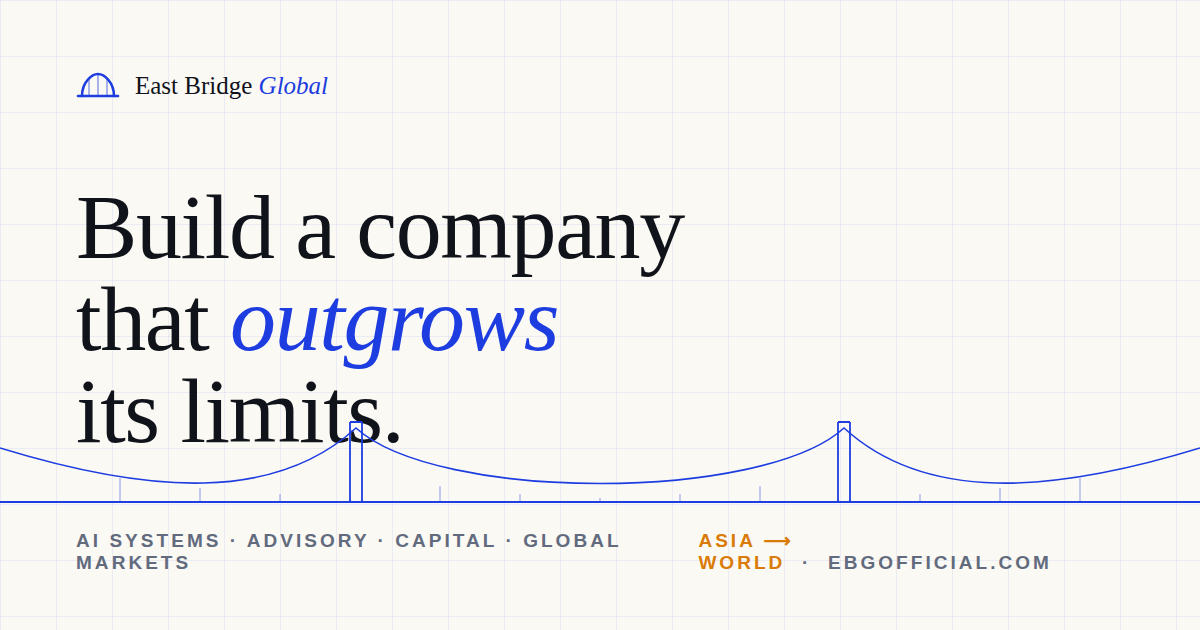
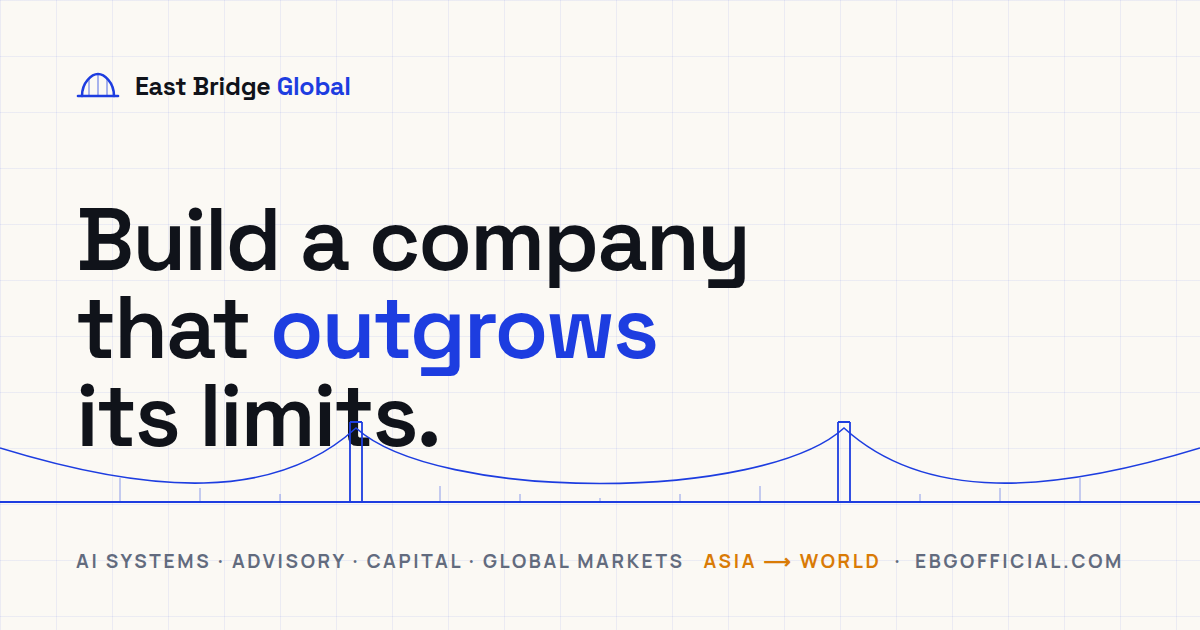
Switch display type to Space Grotesk; remove italic styling
Sleeker, less decorative typography per founder feedback: Space Grotesk
replaces the Fraunces serif for all display text, italic accents become
weight/color emphasis, quote and monogram restyled to match, OG image
regenerated in the new type.

Claude-Session: https://claude.ai/code/session_01LS6C7Ej7PnfyqcFZNMsc5q

Changed region(s): [[0.0617, 0.3016, 0.6475, 0.7238], [0.0617, 0.8444, 0.9558, 0.9048], [0.0925, 0.1206, 0.3083, 0.181]]

diff --git a/assets/css/styles.css b/assets/css/styles.css
@@ -24,7 +24,7 @@
   --hairline-strong: rgba(16, 19, 26, 0.32);
   --gridline: rgba(29, 61, 224, 0.08);
 
-  --font-display: "Fraunces", "Iowan Old Style", "Palatino Linotype", Georgia, serif;
+  --font-display: "Space Grotesk", "Manrope", "Segoe UI", system-ui, -apple-system, sans-serif;
   --font-body: "Manrope", "Avenir Next", "Segoe UI", system-ui, -apple-system, sans-serif;
   --font-mono: "SF Mono", ui-monospace, "Cascadia Code", Menlo, Consolas, monospace;
 
@@ -57,11 +57,11 @@ button { font: inherit; color: inherit; background: none; border: 0; cursor: poi
 
 h1, h2, h3 {
   font-family: var(--font-display);
-  font-weight: 500;
+  font-weight: 600;
   line-height: 1.05;
-  letter-spacing: -0.01em;
+  letter-spacing: -0.025em;
 }
-h1 em, h2 em, h3 em { font-style: italic; font-weight: 400; }
+h1 em, h2 em, h3 em { font-style: normal; font-weight: 600; }
 
 .container {
   width: min(var(--container), 100% - 2 * var(--gutter));
@@ -188,11 +188,12 @@ h1 em, h2 em, h3 em { font-style: italic; font-weight: 400; }
 .brand__text {
   font-family: var(--font-display);
   font-size: 19px;
-  font-weight: 600;
+  font-weight: 700;
+  letter-spacing: -0.01em;
   color: var(--ink);
   white-space: nowrap;
 }
-.brand__text em { font-style: italic; font-weight: 400; color: var(--cobalt); }
+.brand__text em { font-style: normal; font-weight: 700; color: var(--cobalt); }
 
 .nav__links { display: flex; gap: 28px; margin-left: auto; }
 .nav__links a {
@@ -542,8 +543,9 @@ h1 em, h2 em, h3 em { font-style: italic; font-weight: 400; }
 .founder__frame.no-photo .founder__monogram { display: grid; }
 .founder__monogram span {
   font-family: var(--font-display);
-  font-style: italic;
-  font-size: 110px;
+  font-weight: 600;
+  letter-spacing: -0.02em;
+  font-size: 100px;
   color: var(--cobalt);
   opacity: 0.85;
 }
@@ -572,9 +574,10 @@ h1 em, h2 em, h3 em { font-style: italic; font-weight: 400; }
   padding-left: 22px;
   border-left: 3px solid var(--cobalt);
   font-family: var(--font-display);
-  font-style: italic;
-  font-size: clamp(21px, 2.2vw, 28px);
-  line-height: 1.3;
+  font-weight: 500;
+  font-size: clamp(20px, 2.1vw, 26px);
+  line-height: 1.35;
+  letter-spacing: -0.01em;
   color: var(--ink);
 }
 .founder__text > p:not(.eyebrow) {
@@ -615,7 +618,7 @@ h1 em, h2 em, h3 em { font-style: italic; font-weight: 400; }
 }
 .mission__per {
   font-family: var(--font-display);
-  font-style: italic;
+  font-weight: 500;
   font-size: clamp(20px, 2.4vw, 30px);
   color: var(--muted);
 }

diff --git a/404.html b/404.html
@@ -8,7 +8,7 @@
   <link rel="icon" href="/assets/img/favicon.svg" type="image/svg+xml">
   <link rel="preconnect" href="https://fonts.googleapis.com">
   <link rel="preconnect" href="https://fonts.gstatic.com" crossorigin>
-  <link href="https://fonts.googleapis.com/css2?family=Fraunces:ital,opsz,wght@0,9..144,400;0,9..144,500;1,9..144,400&family=Manrope:wght@400;700;800&display=swap" rel="stylesheet">
+  <link href="https://fonts.googleapis.com/css2?family=Space+Grotesk:wght@500;600;700&family=Manrope:wght@400;700;800&display=swap" rel="stylesheet">
   <link rel="stylesheet" href="/assets/css/styles.css">
   <style>
     .nf {
@@ -33,7 +33,8 @@
     .nf__inner { position: relative; }
     .nf__code {
       font-family: var(--font-display);
-      font-style: italic;
+      font-weight: 600;
+      letter-spacing: -0.03em;
       font-size: clamp(100px, 20vw, 220px);
       line-height: 1;
       color: var(--cobalt);

diff --git a/index.html b/index.html
@@ -23,7 +23,7 @@
 
   <link rel="preconnect" href="https://fonts.googleapis.com">
   <link rel="preconnect" href="https://fonts.gstatic.com" crossorigin>
-  <link href="https://fonts.googleapis.com/css2?family=Fraunces:ital,opsz,wght@0,9..144,400;0,9..144,500;0,9..144,600;1,9..144,400;1,9..144,500&family=Manrope:wght@400;500;600;700;800&display=swap" rel="stylesheet">
+  <link href="https://fonts.googleapis.com/css2?family=Space+Grotesk:wght@500;600;700&family=Manrope:wght@400;500;600;700;800&display=swap" rel="stylesheet">
 
   <link rel="stylesheet" href="assets/css/styles.css">
 

diff --git a/README.md b/README.md
@@ -20,9 +20,9 @@ founder):
 - High luminance contrast throughout (cobalt on paper ≈ 7:1, ink on paper ≈ 15:1).
 - Identity: blueprint grid, a self-drawing suspension-bridge schematic in the
   hero, technical corner marks, a rotating "operator-led" stamp.
-- Type: [Fraunces](https://fonts.google.com/specimen/Fraunces) display serif +
-  [Manrope](https://fonts.google.com/specimen/Manrope), from Google Fonts with
-  system fallbacks.
+- Type: [Space Grotesk](https://fonts.google.com/specimen/Space+Grotesk)
+  (display) + [Manrope](https://fonts.google.com/specimen/Manrope) (body), from
+  Google Fonts with system fallbacks.
 - All motion is disabled automatically under `prefers-reduced-motion`.
 
 ## Structure